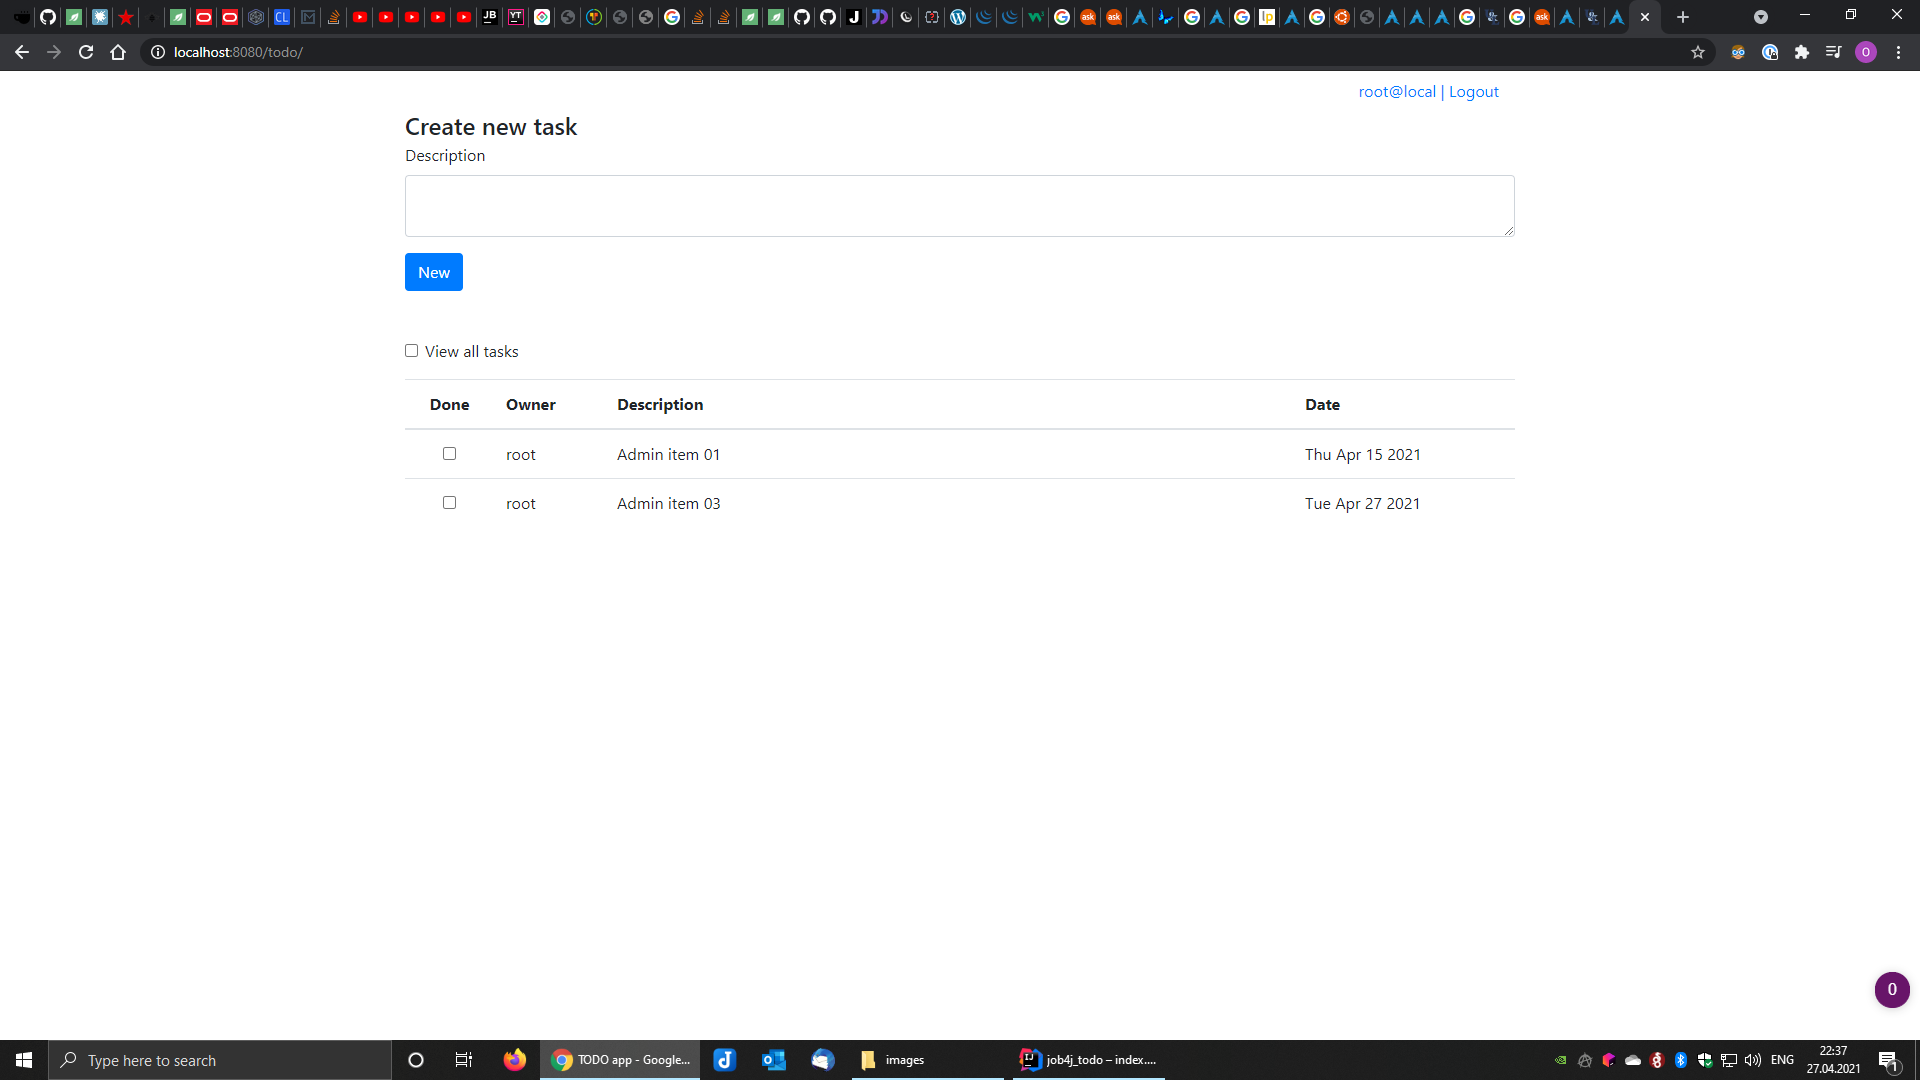
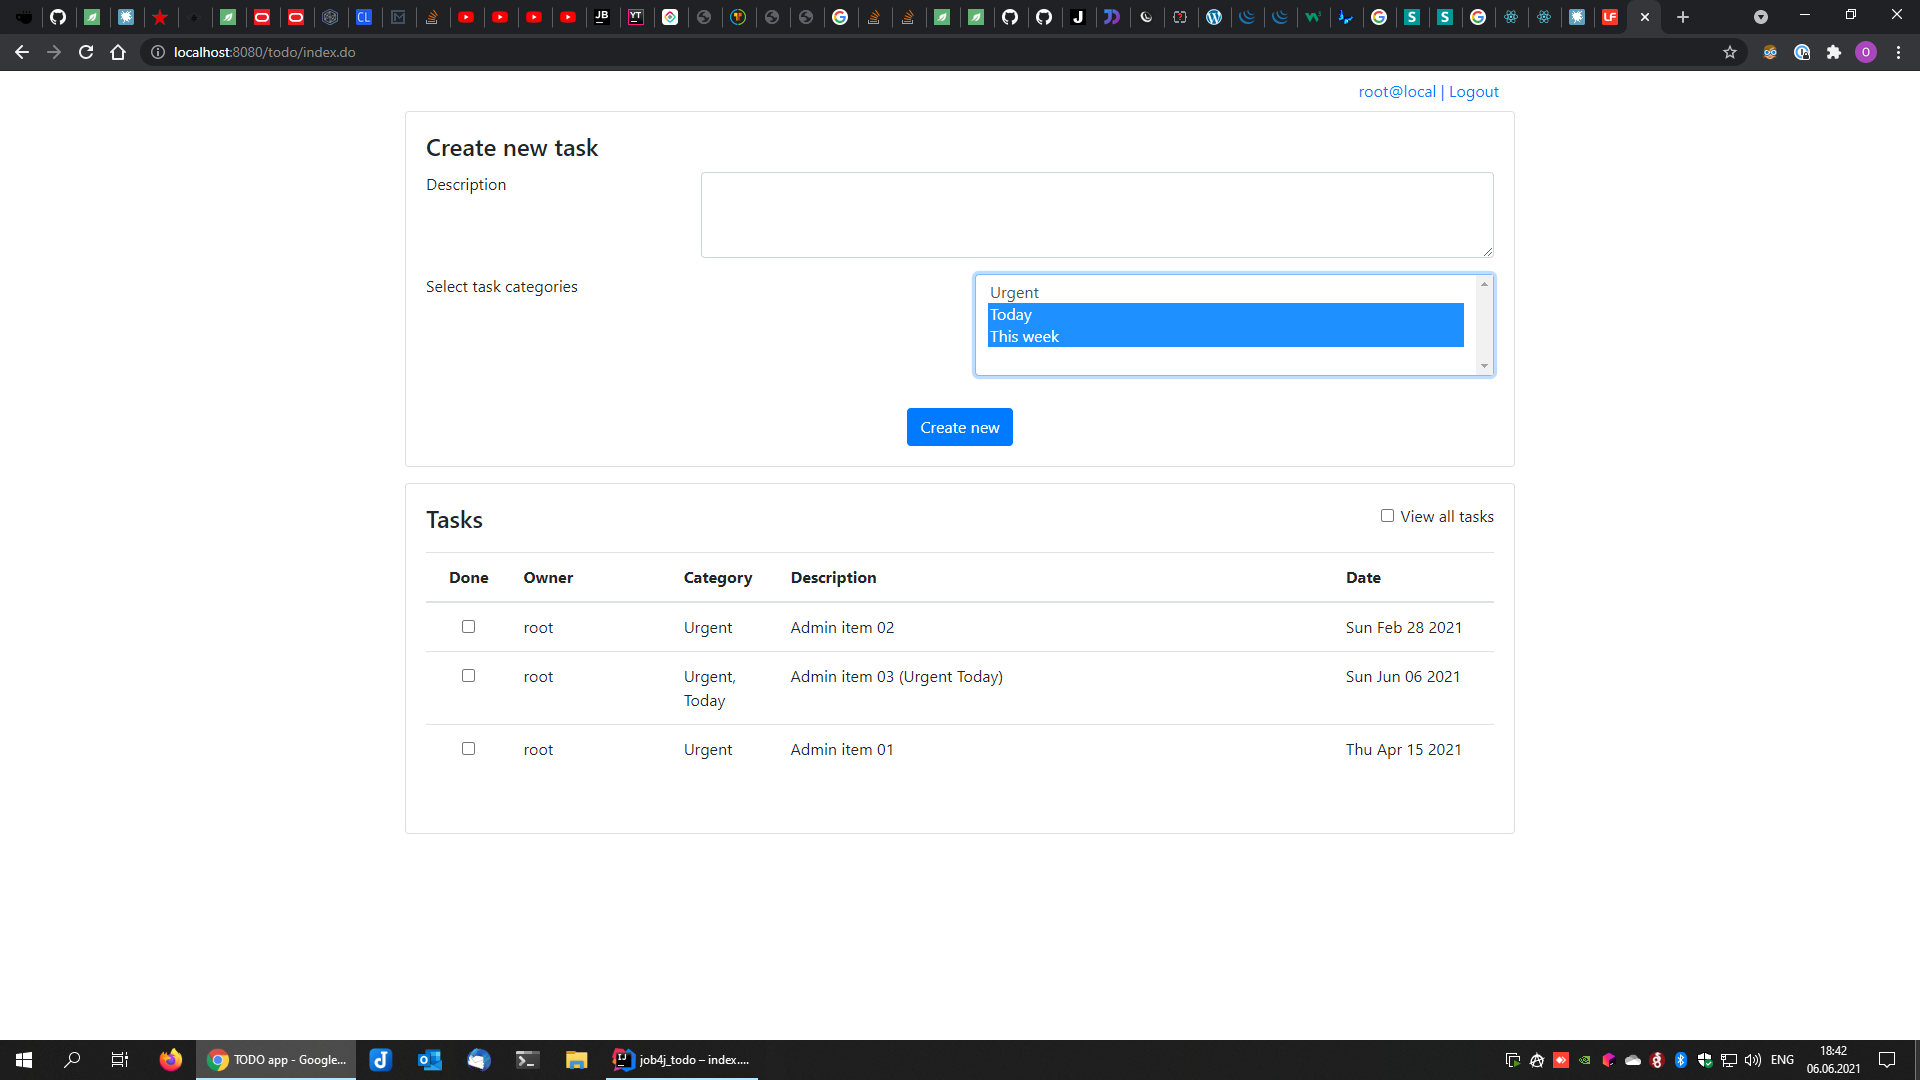
screenshots with categories

diff --git a/src/main/webapp/index.html b/src/main/webapp/index.html
@@ -166,9 +166,14 @@
     }
 
     function fillCategoriesList(data) {
+        let fstLine = true;
         $('#categories-list').empty();
         $.each(data, function (index, value) {
             let row = '<option value="' + value.id +'">' + value.name + '</option>';
+            if (fstLine) {
+                row = '<option selected value="' + value.id +'">' + value.name + '</option>';
+                fstLine = false;
+            }
             $('#categories-list').append(row);
         });
     }

diff --git a/readme.md b/readme.md
@@ -9,6 +9,4 @@
 
 ![screenshot1](images/todo_viewall.png)
 
-![screenshot1](images/todo_newitem.png)
-
 ![screenshot1](images/todo_reguser.png)
